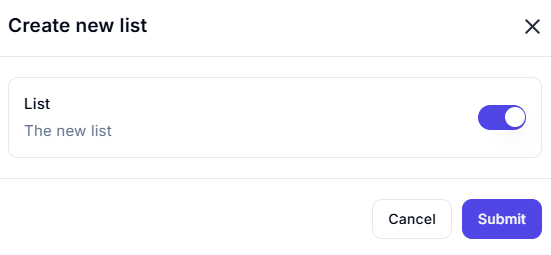
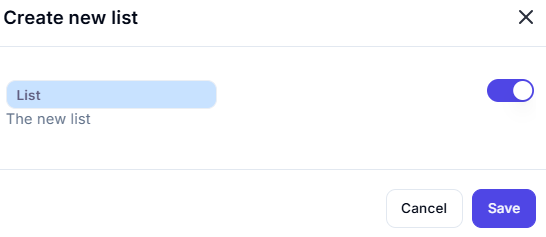
Please check new updated file

diff --git a/Pooja/Documents/workflow-logics/http/invoke-SOAP-web-service.md b/Pooja/Documents/workflow-logics/http/invoke-SOAP-web-service.md
@@ -1,0 +1,56 @@
+# Invoke SOAP Web Service
+
+## Description
+
+This interface allows users to send SOAP requests to a specified web service endpoint. It is used for integrating external systems that communicate using the SOAP protocol.
+
+![Invoke SOAP Web Service UI](../../assests/workflow-logics/assests%20http/invoke-SOAP-web-service.png)
+
+---
+
+## Fields and Options
+
+### **1. Endpoint** (Required)
+
+- **Purpose:** The URL of the SOAP web service endpoint.
+- **Example:** `https://example.com/soap/endpoint`
+- **Required:** Yes
+
+### **2. Custom Headers**
+
+- **Purpose:** Optional HTTP headers to be included in the request.
+- **Format:** JSON or plain key-value pairs.
+- **Example:**
+
+  ```json
+  {
+    "Content-Type": "text/xml",
+    "Authorization": "Bearer token123"
+  }
+  ```
+
+### 3. Request Body
+
+Purpose: The full SOAP XML request body.
+
+Format: Raw XML.
+
+- **Example:**
+
+```plaintext
+<soapenv:Envelope xmlns:soapenv="http://schemas.xmlsoap.org/soap/envelope/" xmlns:web="http://example.com/webservice">
+   <soapenv:Header/>
+   <soapenv:Body>
+      <web:GetData>
+         <web:Id>123</web:Id>
+      </web:GetData>
+   </soapenv:Body>
+</soapenv:Envelope>
+
+```
+
+### Common Use Cases
+
+- Fetching data from legacy systems
+- Performing transactions with ERP or CRM systems
+- Interacting with government or financial web services

diff --git a/Pooja/Documents/workflow-logics/run-flow/run-desktop-flow.md b/Pooja/Documents/workflow-logics/run-flow/run-desktop-flow.md
@@ -1,0 +1,33 @@
+# Run Desktop Flow
+
+## Description
+
+The **Run Desktop Flow** dialog is used to invoke another desktop flow from the current automation. This is useful for modularizing tasks and reusing flows across different processes.
+
+![Run Desktop Flow UI](../../assests/workflow-logics/assests%20run-flow/run-desktop-flow.png)
+
+## Fields and Options
+
+### **1. Desktop Flow** (Required)
+
+- A dropdown where you select an existing desktop flow to run.
+- This is a mandatory field and must be selected before saving.
+
+### **2. Wait for Flow to Complete**
+
+- **Description:**
+
+  If enabled, the parent flow pauses until the invoked desktop flow finishes execution. Once completed, any output variables from the child flow are made available to the current flow.
+
+- **Behavior:**
+  - **Enabled:** Flow runs sequentially. Output variables from the invoked flow can be used.
+  - **Disabled:** Flow runs concurrently. Output variables are ignored.
+
+- **Toggle Switch:**  
+  On by default (enabled), represented by a blue switch.
+
+## Use Cases
+
+- **Sequential task execution:** When one flow depends on another’s results.
+- **Parallel processing:** Speed up workflows by executing flows simultaneously when output isn't required.
+- **Flow reusability:** Modularizing large automations into smaller, manageable units.

diff --git a/Pooja/Documents/workflow-logics/datatable/filter-data-table.md b/Pooja/Documents/workflow-logics/datatable/filter-data-table.md
@@ -1,0 +1,42 @@
+# Filter Data Table
+
+## Description
+
+This dialog is used to apply filters to an existing data table, producing a new filtered version based on specified criteria.
+
+![Filter Data Table UI](../../assests/workflow-logics/assests%20datatable/filter-data-table.png)
+
+---
+
+## Fields and Options
+
+### **1. Data Table**
+
+- **Purpose:** Selects the source data table to filter.
+- **Type:** Existing `DataTable` variable.
+- **Requirement:** Must be populated with data to apply filters effectively.
+
+### **2. Filters to Apply**
+
+- **Purpose:** Specifies the filtering conditions.
+- **Format Example:** `ColumnName = "Value"` or advanced expressions like `ColumnName > 100`
+- **Supports:** Multiple filters and logical operators depending on the platform's filter syntax.
+
+---
+
+## Output (Expandable Section)
+
+### **FilteredDataTable (Toggle Enabled)**
+
+- **Purpose:** Stores the result of the filtering operation.
+- **Default Name:** `FilteredDataTable`
+- **Description:** "The generated data table after applying the filters"
+- **Customizable:** Yes – you can rename this output variable.
+
+---
+
+## Common Use Cases
+
+- Isolating rows based on conditions (e.g., date ranges, status flags)
+- Cleaning data for downstream processing
+- Preparing subsets for reporting or exporting

diff --git a/Pooja/Documents/workflow-logics/datatable/create-new-data-table.md b/Pooja/Documents/workflow-logics/datatable/create-new-data-table.md
@@ -1,0 +1,35 @@
+# Create New Data Table
+
+## Description
+
+This configuration dialog allows you to define a new empty data table for use in workflows. It serves as a container for structured data (rows and columns) that can be dynamically populated and manipulated.
+
+![Create New Data Table UI](../../assests/workflow-logics/assests%20datatable/create-new-data-table.png)
+
+
+## Fields and Options
+
+### **1. Data Table**
+
+- **Purpose:** Sets up the dimensions of the data table to be created.
+- **Format:** Predefined as `0 Rows, 0 Columns` upon initial creation.
+- **Note:** Additional rows and columns can be added programmatically later in the flow.
+
+---
+
+## Output (Expandable Section)
+
+### **DataTable (Toggle Enabled)**
+
+- **Purpose:** Defines the output variable where the new data table will be stored.
+- **Default Name:** `DataTable`
+- **Description:** "The new Data Table"
+- **Customizable:** Yes – you can rename the variable as needed.
+
+---
+
+## Common Use Cases
+
+- Creating a table structure to store results from loops or queries
+- Populating with parsed data from files, web services, or user input
+- Performing data transformations and exporting results

diff --git a/Pooja/Documents/workflow-logics/variable/create-new-list.md b/Pooja/Documents/workflow-logics/variable/create-new-list.md
@@ -1,0 +1,34 @@
+# Create New List
+
+## Description 
+
+The **Create New List** dialog allows users to create and configure a new list object within the automation workflow.
+
+![Create New List UI](../../assests/workflow-logics/assests%20variable/create-new-list.png)
+
+## Fields and Options
+
+### **1. List Name**
+
+- This field (highlighted in blue) represents the name of the new list.
+- By default, it's titled **List**, but can be renamed.
+
+### **2. Description**
+
+- Below the name, there's a short description (e.g., *The new list*) to give context or additional info about the list.
+
+### **3. Toggle Switch**
+
+- Positioned on the right side.
+- Enables or disables the list (or marks it active/inactive for some initial purpose).
+
+## Use Cases
+
+- Creating a list to store items dynamically during an automation run.
+- Initializing list variables for iteration or condition-based logic.
+- Maintaining grouped data for structured workflows.
+
+## Notes
+
+- Lists created here can be used later in loops or data processing tasks.
+- The list toggle might relate to whether it's created immediately or just declared.

diff --git a/Pooja/Documents/data-transformation/date-time/add-to-datetime.md b/Pooja/Documents/data-transformation/date-time/add-to-datetime.md
@@ -1,0 +1,28 @@
+# Add to Datetime
+
+## Description
+
+This interface allows users to add a specific duration to a given date and time.
+
+![Add To DateTime](../../assests/data-transformation/assests%20date-time/add-to-datetime.png)
+
+## Input Fields
+
+**Date Time**:
+
+- (Input for the datetime value)
+- **Add**:
+- (Input for the amount to be added)
+
+**Time Unit**:
+
+- Options:
+- Seconds
+- (Other units not visible in the image)
+
+## Output
+
+**ResultedDate**:
+
+- Description: The new, altered datetime value
+- Toggle: On/Off
